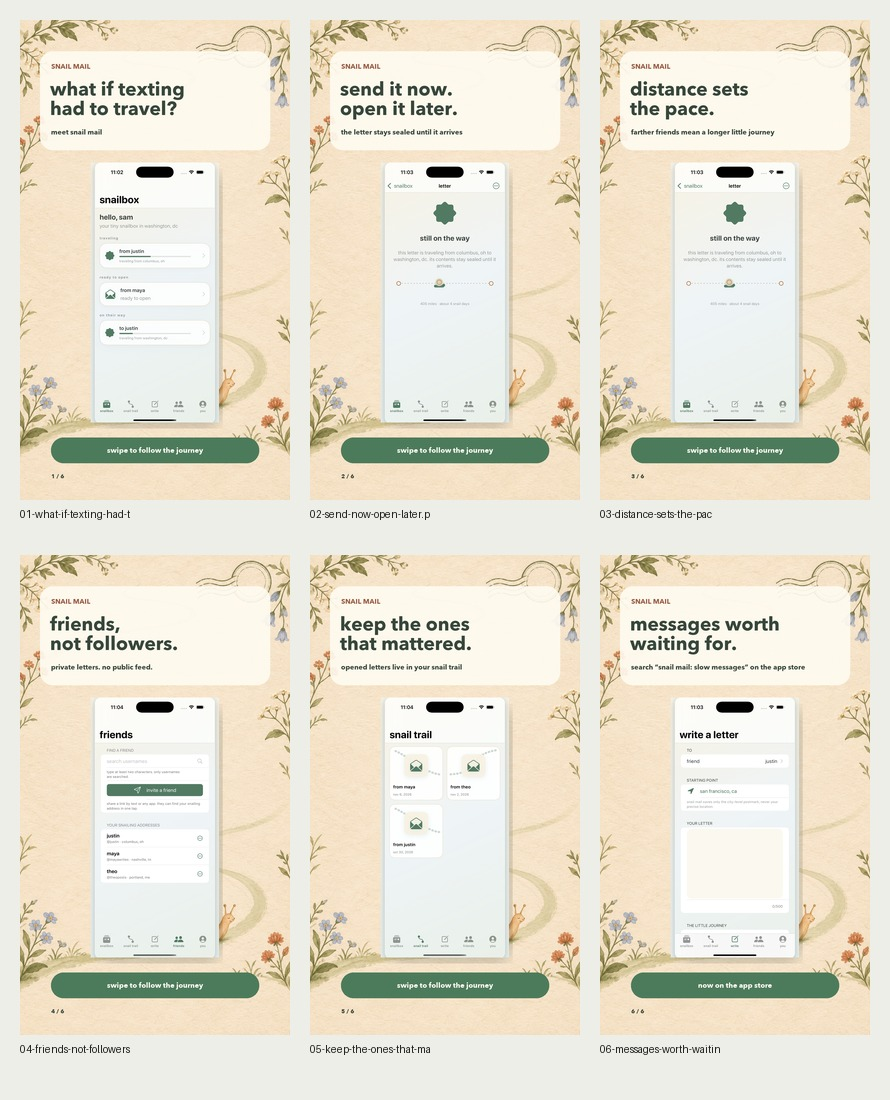
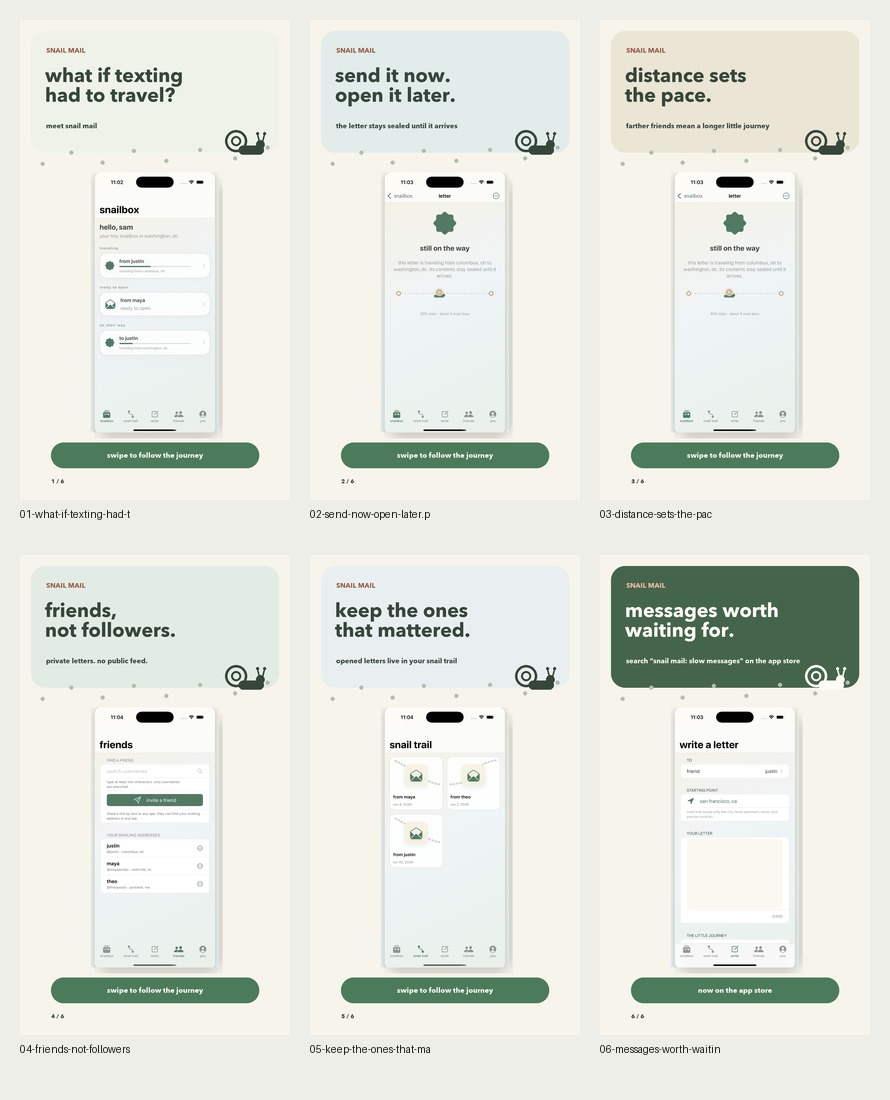
Replace generated TikTok art with app-native design

diff --git a/Marketing/generate_tiktok_carousel.py b/Marketing/generate_tiktok_carousel.py
@@ -1,5 +1,5 @@
 #!/usr/bin/env python3
-"""Generate a ready-to-post 9:16 TikTok carousel from real Snail Mail UI."""
+"""Generate a clean 9:16 TikTok carousel from real Snail Mail UI."""
 
 from pathlib import Path
 
@@ -8,11 +8,20 @@ from PIL import Image, ImageDraw, ImageFilter, ImageFont
 
 ROOT = Path(__file__).resolve().parents[1]
 OUT = ROOT / "Marketing" / "TikTokCarousel"
-BACKGROUND = ROOT / "Marketing" / "SourceArt" / "tiktok-paper-trail.png"
 FONT = "/System/Library/Fonts/Avenir Next.ttc"
 SIZE = (1080, 1920)
 INK = (55, 70, 59)
 TERRACOTTA = (151, 91, 68)
+CREAM = (247, 244, 235)
+
+PALETTES = (
+    ((238, 242, 232), INK),
+    ((225, 236, 235), INK),
+    ((235, 229, 214), INK),
+    ((226, 236, 228), INK),
+    ((233, 239, 240), INK),
+    ((68, 101, 76), (255, 252, 244)),
+)
 
 
 SLIDES = (
@@ -43,25 +52,43 @@ def phone_image(filename: str) -> Image.Image:
     return phone.resize((width, height), Image.Resampling.LANCZOS).convert("RGBA")
 
 
+def draw_trail(draw: ImageDraw.ImageDraw, y: int, color: tuple[int, int, int]) -> None:
+    """Draw the same restrained dotted journey language used by the app."""
+    points = ((90, y + 70), (205, y + 25), (330, y + 65), (455, y + 18),
+              (585, y + 58), (720, y + 14), (860, y + 48), (990, y + 5))
+    for x, py in points:
+        draw.ellipse((x - 8, py - 8, x + 8, py + 8), fill=color)
+
+
+def draw_snail_mark(draw: ImageDraw.ImageDraw, x: int, y: int,
+                    color: tuple[int, int, int]) -> None:
+    """Draw a minimal geometric snail mark from circles and lines."""
+    draw.ellipse((x, y + 20, x + 88, y + 108), outline=color, width=10)
+    draw.ellipse((x + 24, y + 44, x + 64, y + 84), outline=color, width=8)
+    draw.rounded_rectangle((x + 54, y + 82, x + 155, y + 118), 18, fill=color)
+    draw.ellipse((x + 124, y + 60, x + 158, y + 96), fill=color)
+    draw.line((x + 137, y + 65, x + 130, y + 36), fill=color, width=6)
+    draw.line((x + 151, y + 65, x + 158, y + 36), fill=color, width=6)
+    draw.ellipse((x + 124, y + 28, x + 136, y + 40), fill=color)
+    draw.ellipse((x + 152, y + 28, x + 164, y + 40), fill=color)
+
+
 def build(index: int, output_name: str, screen_name: str,
           headline: str, subhead: str) -> None:
-    background = Image.open(BACKGROUND).convert("RGB").resize(SIZE, Image.Resampling.LANCZOS)
-    canvas = background.convert("RGBA")
-
-    # Quiet paper panels preserve contrast while retaining the illustrated edge.
-    panel = Image.new("RGBA", SIZE, (0, 0, 0, 0))
-    panel_draw = ImageDraw.Draw(panel)
-    panel_draw.rounded_rectangle((80, 125, 1000, 520), 52, fill=(255, 251, 241, 230))
-    canvas = Image.alpha_composite(canvas, panel)
-
+    header_color, header_ink = PALETTES[index - 1]
+    canvas = Image.new("RGBA", SIZE, CREAM + (255,))
     draw = ImageDraw.Draw(canvas)
-    draw.text((125, 168), "SNAIL MAIL", font=font(27), fill=TERRACOTTA)
-    draw.multiline_text((120, 226), headline, font=font(76), fill=INK, spacing=2)
-    draw.text((124, 430), subhead, font=font(28), fill=INK)
+    draw.rounded_rectangle((44, 44, 1036, 530), 56, fill=header_color)
+    draw.text((105, 104), "SNAIL MAIL", font=font(27),
+              fill=TERRACOTTA if index < 6 else (242, 190, 165))
+    draw.multiline_text((100, 170), headline, font=font(78), fill=header_ink, spacing=1)
+    draw.text((104, 405), subhead, font=font(28), fill=header_ink)
+    draw_trail(draw, 505, (176, 190, 177))
+    draw_snail_mark(draw, 820, 420, header_ink)
 
     phone = phone_image(screen_name)
     x = (SIZE[0] - phone.width) // 2
-    y = 570
+    y = 610
     shadow = Image.new("RGBA", SIZE, (0, 0, 0, 0))
     shadow_mask = Image.new("L", phone.size, 0)
     ImageDraw.Draw(shadow_mask).rounded_rectangle(
@@ -73,12 +100,12 @@ def build(index: int, output_name: str, screen_name: str,
     canvas.alpha_composite(phone, (x, y))
 
     draw = ImageDraw.Draw(canvas)
-    draw.rounded_rectangle((124, 1670, 956, 1772), 50, fill=(76, 123, 91))
+    draw.rounded_rectangle((124, 1690, 956, 1792), 50, fill=(76, 123, 91))
     footer = "swipe to follow the journey" if index < len(SLIDES) else "now on the app store"
     box = draw.textbbox((0, 0), footer, font=font(29))
     footer_width = box[2] - box[0]
-    draw.text(((SIZE[0] - footer_width) / 2, 1702), footer, font=font(29), fill=(255, 252, 244))
-    draw.text((125, 1810), f"{index} / {len(SLIDES)}", font=font(23), fill=INK)
+    draw.text(((SIZE[0] - footer_width) / 2, 1722), footer, font=font(29), fill=(255, 252, 244))
+    draw.text((125, 1830), f"{index} / {len(SLIDES)}", font=font(23), fill=INK)
 
     OUT.mkdir(parents=True, exist_ok=True)
     canvas.convert("RGB").save(OUT / output_name, "PNG", optimize=True)

diff --git a/Marketing/README.md b/Marketing/README.md
@@ -23,8 +23,10 @@ shown in every final asset comes from the approved screenshots in
 ## TikTok carousel
 
 `TikTokCarousel/` contains six ready-to-post 1080 × 1920 RGB PNG slides. Upload
-them in numeric order as a TikTok photo carousel. They use conservative top,
-side, and bottom safe areas so TikTok controls do not obscure the core message.
+them in numeric order as a TikTok photo carousel. The design uses only real app
+UI, crisp type, the product palette, and deterministic geometric marks—no
+generated illustration. Conservative safe areas prevent TikTok controls from
+obscuring the core message.
 
 Regenerate them with:
 
